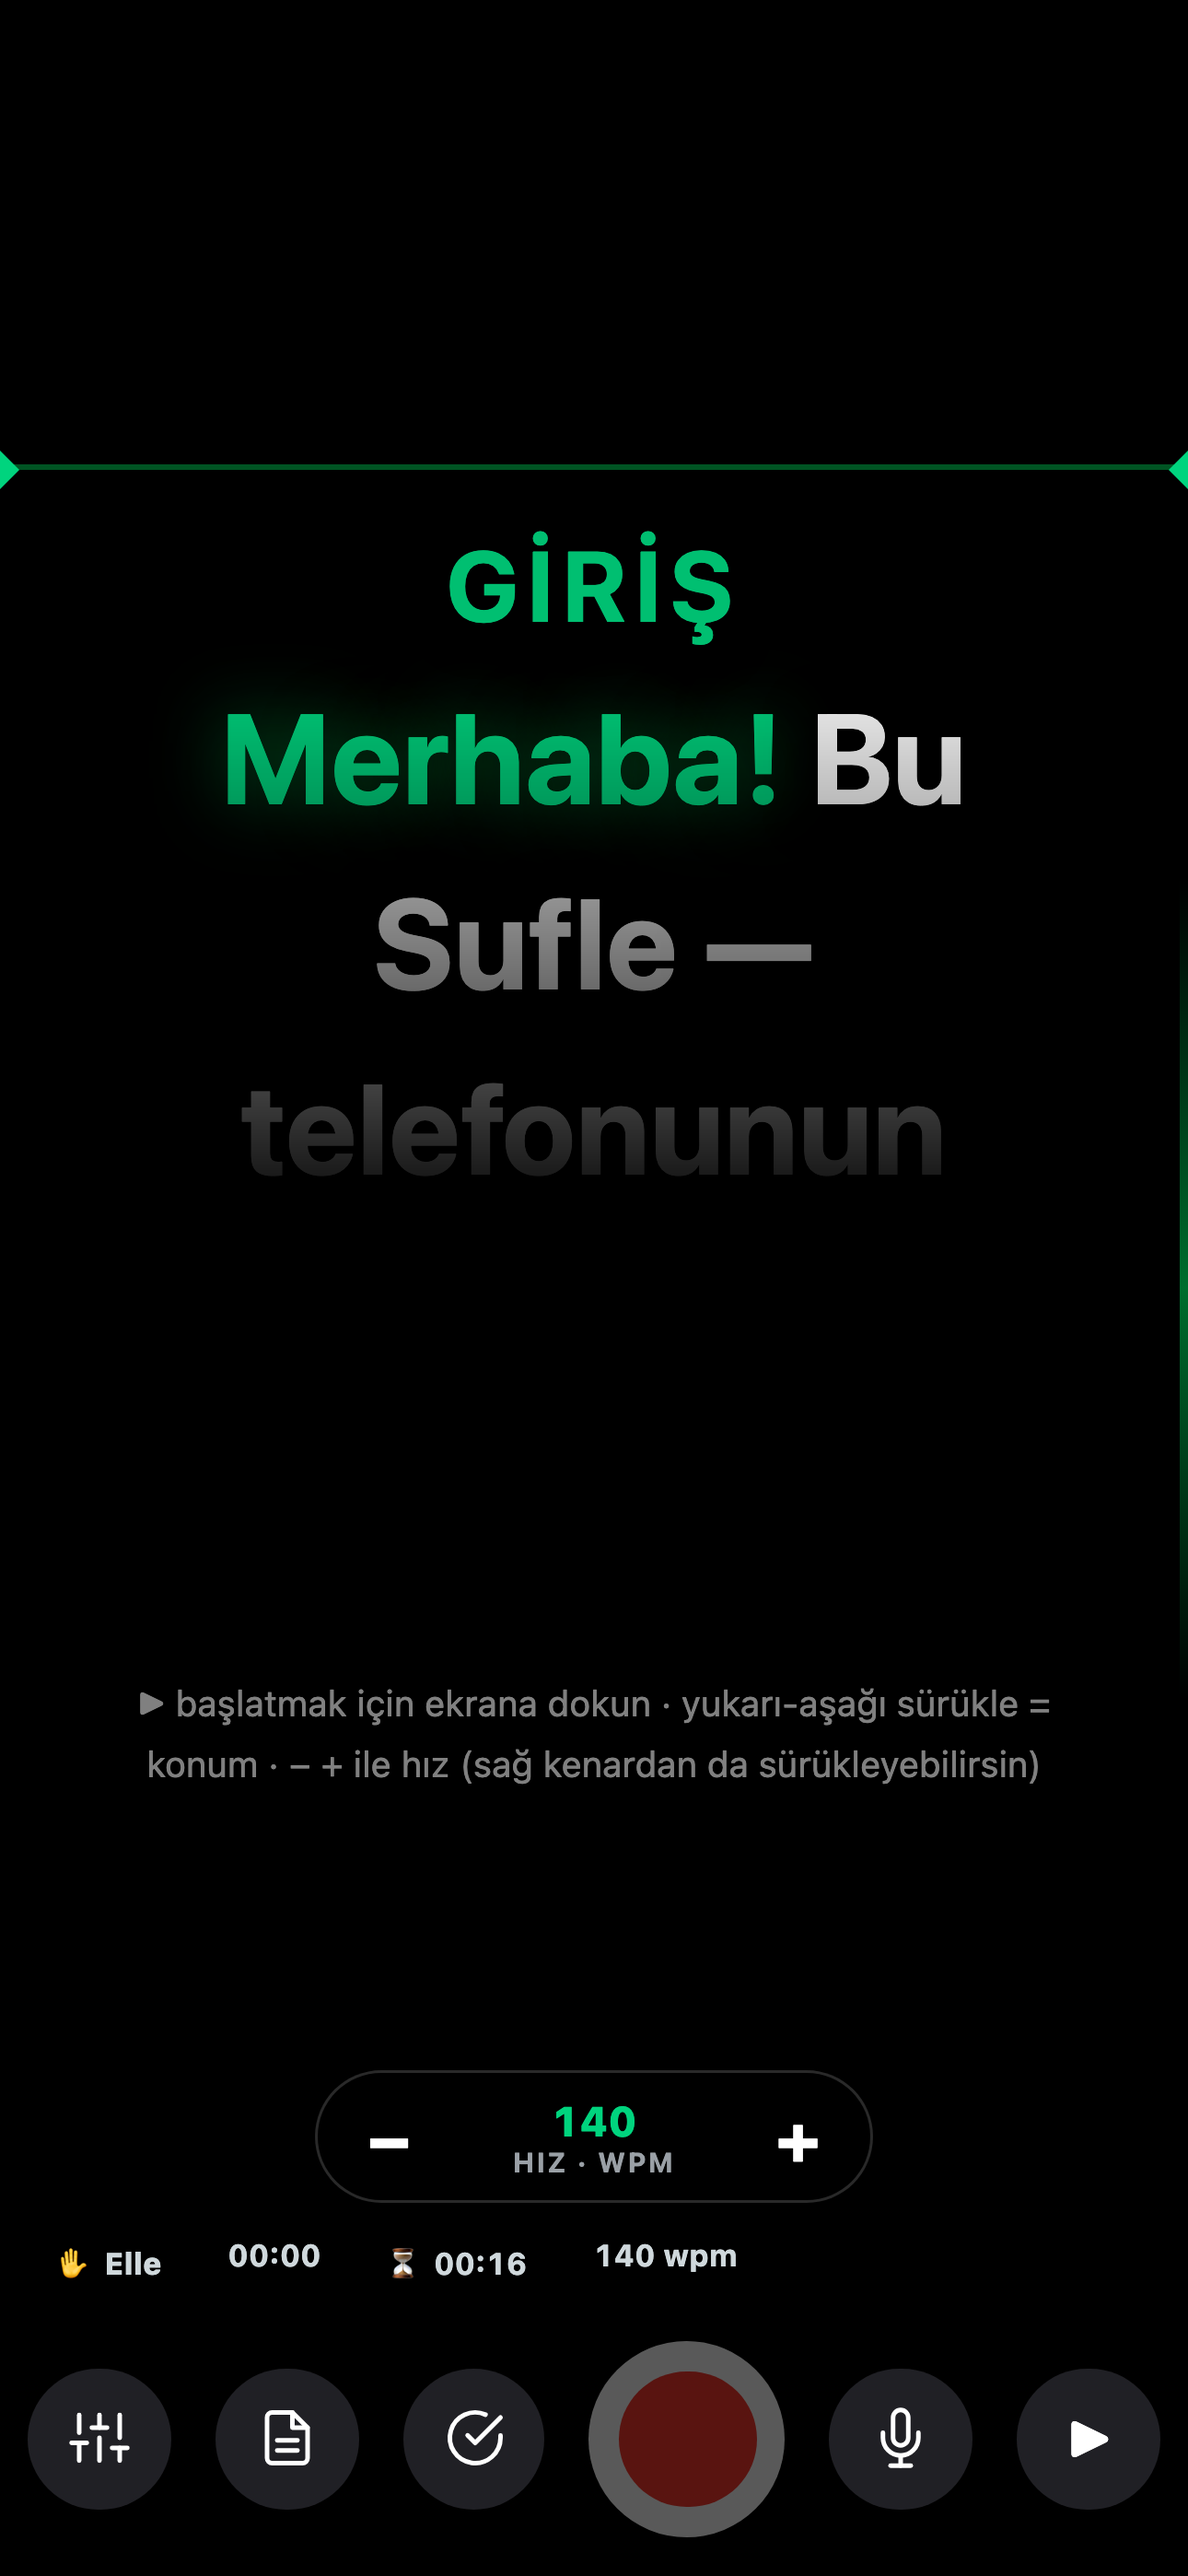
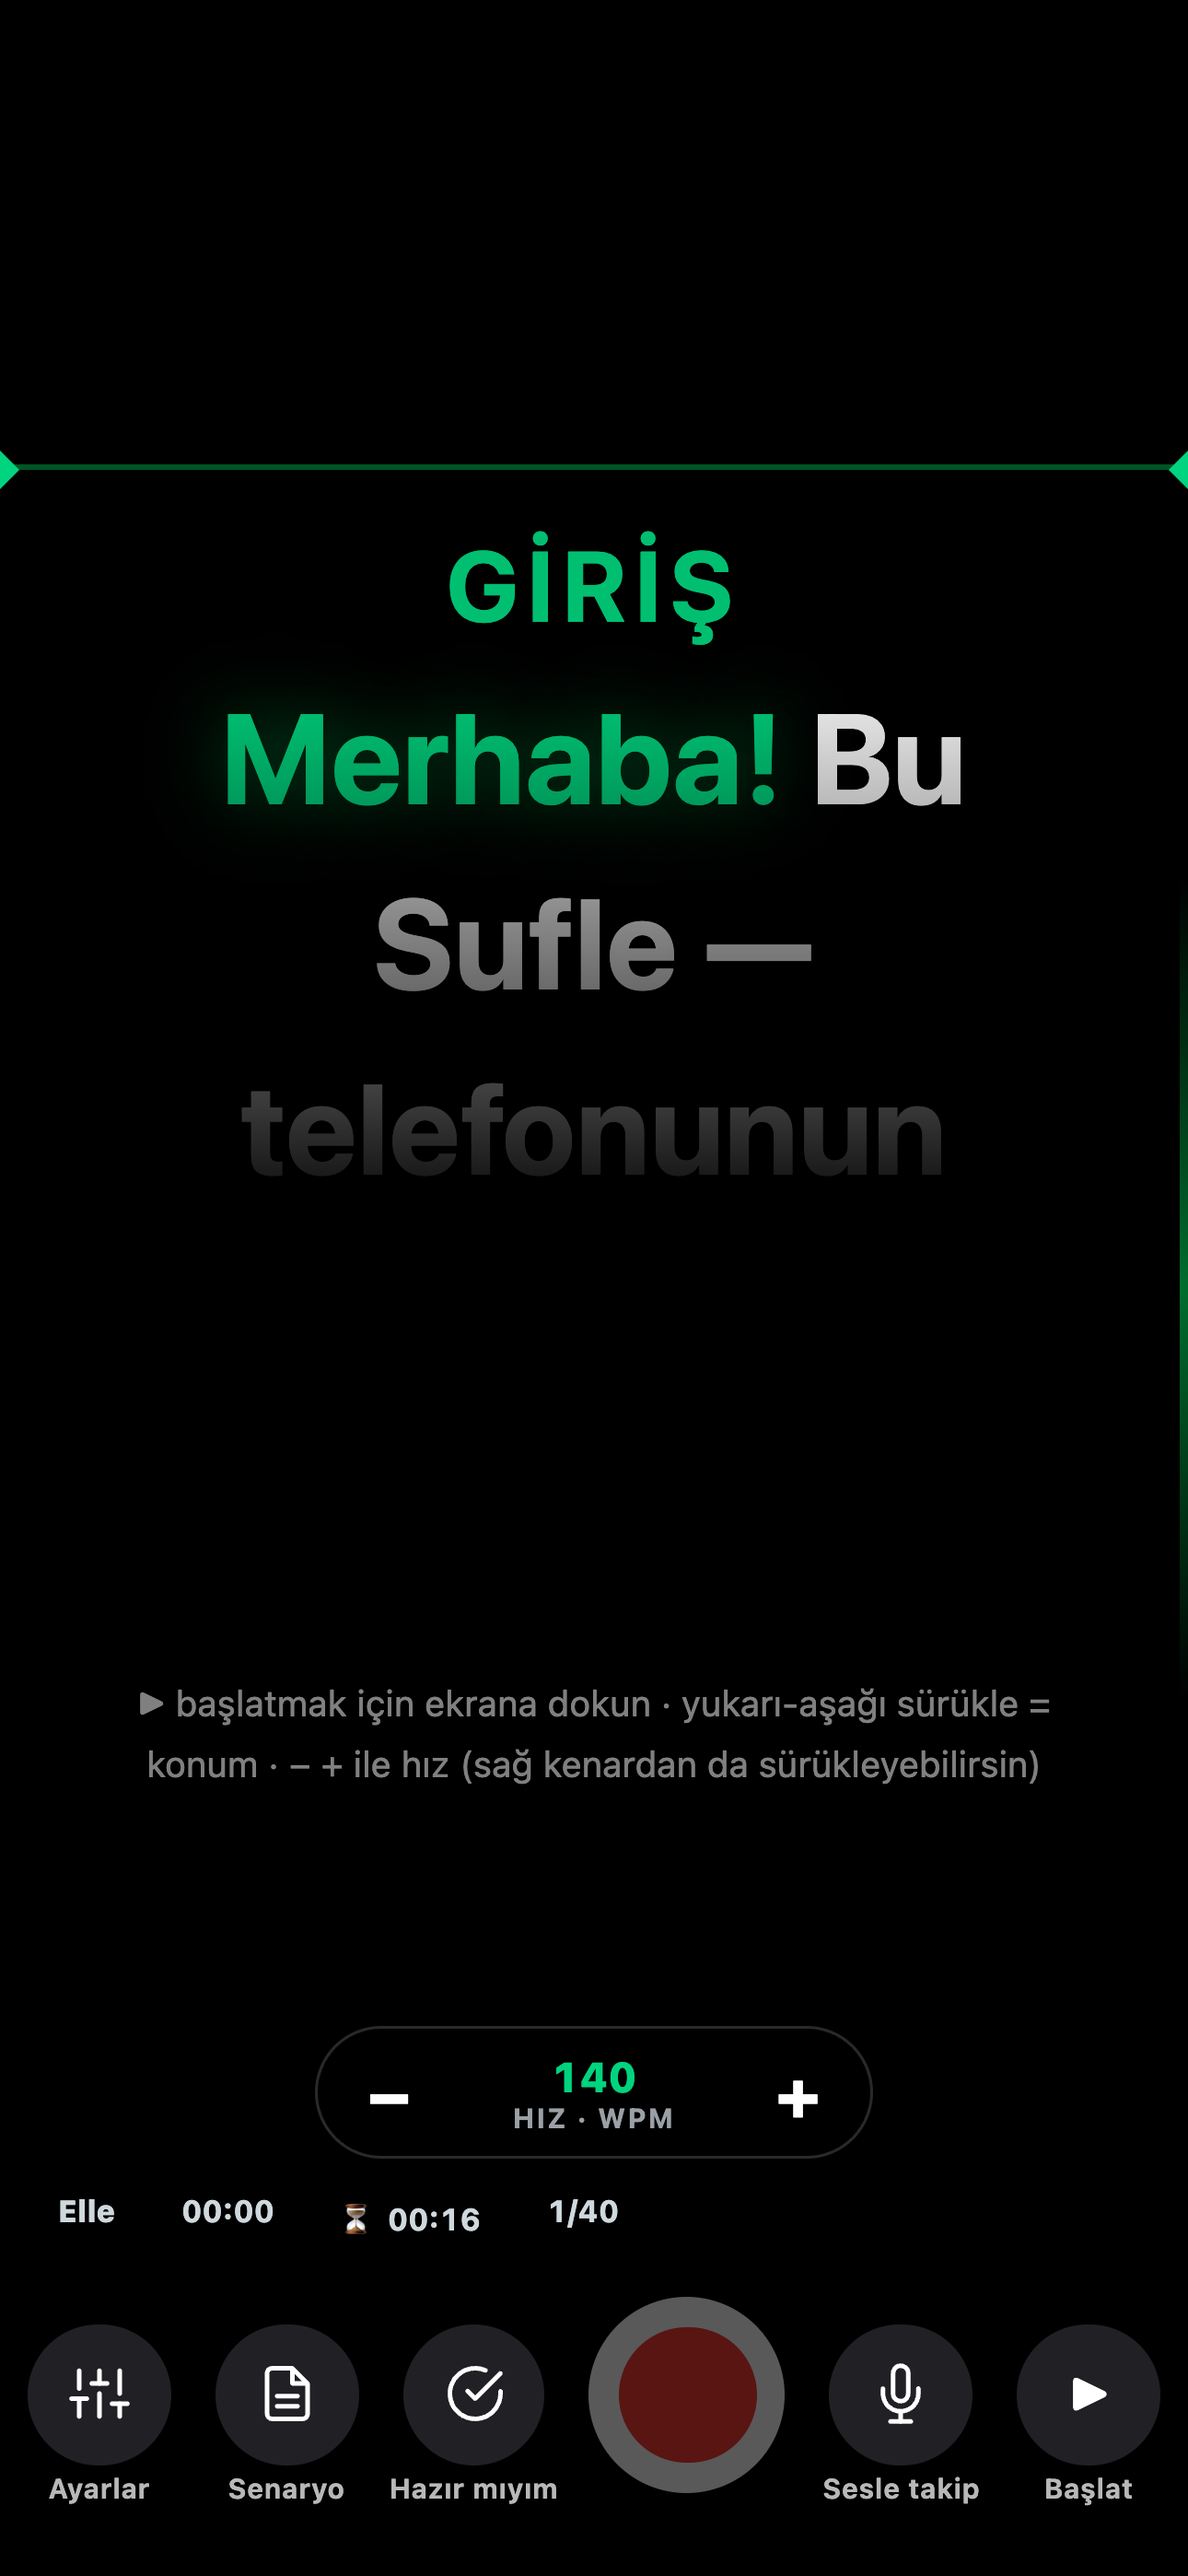
Durum seridi cubugun icine giriyordu — yukseklik tek kaynaga baglandi
Magaza kare araci yakaladi: alti karenin dordunde 5 CAKISAN KUMANDA cifti.
Kok neden bende: cubuga dugme etiketleri eklerken alt ic kenari 14 -> 30 px
yaptim ama ustteki katmanlari tasiyan `--barH` jetonunu guncellemedim.
Cubuk buyudu, durum seridi yerinde kaldi ve cubugun ICINE girdi (430 px'te
10 px ortusme). Tam da o jetonu yazan yorumun uyardigi kusur — ustelik onu
yazan turdan sonra.

Cozum: ic kenar ve yukseklik AYNI jetondan okunuyor (--barAlt), ikisi
ayrisamaz. Olcum sonrasi 430/390/360 px'te cakisan cift 0; magaza kareleri
yeniden uretildi, alti karede de cakisma yok.

Ayrica yeni giris ekrani KULLANARAK denetlendi: 320/360/390/430 px'te tasma
0, JS hatasi 0, rozetler iki dilde dogru, butun yollar calisiyor.

tests/134'e 4 iddia + 2 kasitli bozma. Kapi 10/10 YESIL.

diff --git a/index.html b/index.html
@@ -405,13 +405,22 @@
      sayıldı. Yükseklik artık ÜRETİLİYOR: iç kenar + en yüksek düğme
      (kayıt = --cb × 1,37) + alt iç kenar + güvenli alan. Düğme boyu
      değişirse üstteki katmanlar KENDİLİĞİNDEN kayar. */
+  /* ⚠ ALT İÇ KENAR TEK KAYNAKTAN (2026-08-17). Çubuğa düğme etiketleri
+     eklerken iç kenarı 14 → 30 px yaptım ama `--barH`i güncellemeyi unuttum:
+     çubuk büyüdü, üstündeki katman yerinde kaldı ve durum şeridi çubuğun
+     İÇİNE girdi — mağaza kare aracı 5 çakışan kumanda çifti saydı. Tam da
+     yukarıdaki yorumun uyardığı kusur, üstelik onu yazan turdan sonra.
+     Artık iki yer aynı jetonu okuyor; birini değiştirmek diğerini de
+     kendiliğinden taşır. */
   body{--cb:clamp(42px, calc((100vw - 48px) / 7.37), 54px);
-    --barH:calc(10px + var(--cb) * 1.37 + 14px + env(safe-area-inset-bottom))}
+    --barAlt:calc(30px + env(safe-area-inset-bottom));
+    --barH:calc(10px + var(--cb) * 1.37 + var(--barAlt))}
   #bar{position:absolute;left:0;right:0;bottom:0;z-index:8;
     display:flex;align-items:center;justify-content:space-between;flex-wrap:wrap;
     gap:var(--sp-1);
-    /* Alt boşluk etiketler için büyütüldü: yazı düğmenin ALTINDA duruyor. */
-    padding:10px 10px calc(30px + env(safe-area-inset-bottom));
+    /* Alt boşluk etiketler için büyük; değeri `--barAlt` jetonundan geliyor
+       ki üstteki katmanları taşıyan `--barH` ile ASLA ayrışmasın. */
+    padding:10px 10px var(--barAlt);
     background:linear-gradient(to top,rgba(0,0,0,.62),transparent)}
   /* ===== ÇEKİM ÇUBUĞU ETİKETLERİ =====
      Altı yuvarlak ikon vardı ve hiçbirinin yazısı yoktu: kullanıcı ne

diff --git a/tests/134-kumanda-cubugu-sigiyor.js b/tests/134-kumanda-cubugu-sigiyor.js
@@ -175,3 +175,26 @@ ok('çubuk son çare olarak satır kırabiliyor (nowrap değil)',
   ok('odak kipinde etiketler de gizleniyor',
      /body\.hideUI \.cbtn::after\{content:''\}/.test(src2));
 }
+
+/* ---------- ÇUBUK YÜKSEKLİĞİ TEK KAYNAKTAN (2026-08-17) ----------
+   Üstteki katmanlar (durum şeridi, hız hapı) `--barH` jetonuna göre
+   konumlanıyor. Etiketler eklenirken çubuğun ALT İÇ KENARINI 14 → 30 px
+   yaptım ama `--barH`i güncellemedim: çubuk büyüdü, üstündeki katman yerinde
+   kaldı ve durum şeridi çubuğun İÇİNE girdi. Mağaza kare aracı bunu ölçtü
+   (5 çakışan kumanda çifti, 430 px'te 10 px örtüşme).
+
+   Kural: iç kenar ile yükseklik AYNI jetondan okunur, ikisi ayrışamaz.
+   Ölçüm sonrası 430/390/360 px'te çakışan çift 0. */
+{
+  const src3 = oku(telefonYolu());
+  ok('çubuğun alt iç kenarı jetondan geliyor',
+     /--barAlt:calc\(\d+px \+ env\(safe-area-inset-bottom\)\)/.test(src3));
+  /* Desen `[^)]*` ile yazılmıştı ve ifadenin içindeki `calc(...)`in kendi
+     parantezinde takılıyordu — ürün doğruyken kırmızı. */
+  ok('yükseklik aynı jetonu kullanıyor', /--barH:calc\([\s\S]{0,60}?var\(--barAlt\)/.test(src3));
+  ok('çubuk da aynı jetonu kullanıyor', /padding:10px 10px var\(--barAlt\)/.test(src3));
+  /* Ayrışmayı KANITLA: iki bildirimde de ham piksel kalmamalı, yoksa kural
+     yazılı ama uygulanmamış olur. */
+  ok('çubuk iç kenarında ham piksel yok',
+     !/#bar\{[^}]*padding:10px 10px calc\(\d+px \+ env/.test(src3));
+}

diff --git a/SABAH_RAPORU.md b/SABAH_RAPORU.md
@@ -1448,9 +1448,9 @@ ihlal sayıyordu, örnekler parçalı yazılarak ayrıldı.
   index.html + sw.js **md5 birebir**, iki düzeltmenin izi canlıda sayıldı
   (`kelimeSigdir` 4 · `keep-all` 3 · budama üst sınırı 1 · birim çevirisi 1).
   `.son-yayin` ancak doğrulamadan SONRA yazıldı.
-  **13 commit yayınlanmamış** (`main` dalında, v9.17). Canlı sürüm v9.16 ile depo
-  arasındaki fark yayınlanmayı bekliyor — yayın Erdal onayına bağlı.
-- **6543 test** (gece başında 732) · yeni test dosyası: 39–169
+  **v9.17 CANLIDA** (17 Ağustos, Erdal onayıyla; md5 birebir, canlı duman testi
+  temiz). Depoda **1 commit** daha var: v9.18 giriş ekranı — yayın kararı Erdal'da.
+- **6612 test** (gece başında 732) · yeni test dosyası: 39–169
 - Gece planı: 139 görevden **87'si** işlendi (bütün P0'lar + 79 P1 + F9)
 - Kapı: 10 adım yeşil · 4 ayna birebir · `denetim.py` temiz · **394 kanıtlı bozma**
   (yayından sonra 5. adım "VER artmamış" der — CLAUDE.md'ye göre **doğru** durum,
